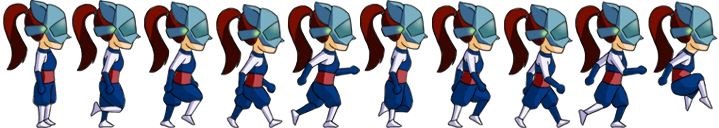
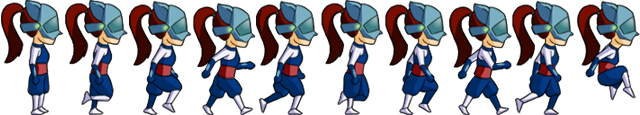
Miwa sprite actualizado

Changed region(s): [[0.0, 0.0, 1.0, 1.0]]

diff --git a/core/src/itesm/kitsune/Miwa.java b/core/src/itesm/kitsune/Miwa.java
@@ -17,18 +17,20 @@ public class Miwa {
     private Animation animacion;
     private float tiempo;
     private Estados estados;
+    private Salto estadoSalto;
     Miwa(Texture textura){
         TextureRegion texturaCompleta = new TextureRegion(textura);
         TextureRegion[][] texturaMiwa = texturaCompleta.split(textura.getWidth()/10,textura.getHeight());
         walkFrames= new TextureRegion[8];
         for(int i=1;i<9;i++)
             walkFrames[i-1]=texturaMiwa[0][i];
-        animacion=new Animation(0.08f,walkFrames);
+        animacion=new Animation(0.09f,walkFrames);
         animacion.setPlayMode(Animation.PlayMode.LOOP);
         tiempo=0;
         sprite=new Sprite(texturaMiwa[0][0]);
         spriteSalto=new Sprite(texturaMiwa[0][9]);
         estados=Estados.QUIETO;
+        estadoSalto=Salto.ENPISO;
     }
     public void render(SpriteBatch batch){
         float x=sprite.getX();
@@ -39,14 +41,18 @@ public class Miwa {
                 //sprite.setTexture(animacion.getKeyFrame(tiempo).getTexture());
                 TextureRegion region = animacion.getKeyFrame(tiempo);
                 //sprite.setTexture(region.getTexture());
-                if (estados == Estados.DERECHA) {
+                if (estados == Estados.DERECHA&&estadoSalto==Salto.ENPISO) {
                     x += velocidad;
                     if (region.isFlipX()) {
                         region.flip(true, false);
                     }
                     if (x <= Nivel1.ANCHO - sprite.getWidth())
                         sprite.setX(x);
-                } else {
+                }
+                else if(estados==Estados.DERECHA&&estadoSalto==Salto.SALTO){
+
+                }
+                else {
                     x -= velocidad;
                     if (!region.isFlipX()) {
                         region.flip(true, false);
@@ -91,5 +97,9 @@ public class Miwa {
         IZQUIERDA,
         DERECHA,
         QUIETO
+    }
+    public enum Salto{
+        ENPISO,
+        SALTO
     }
 }
